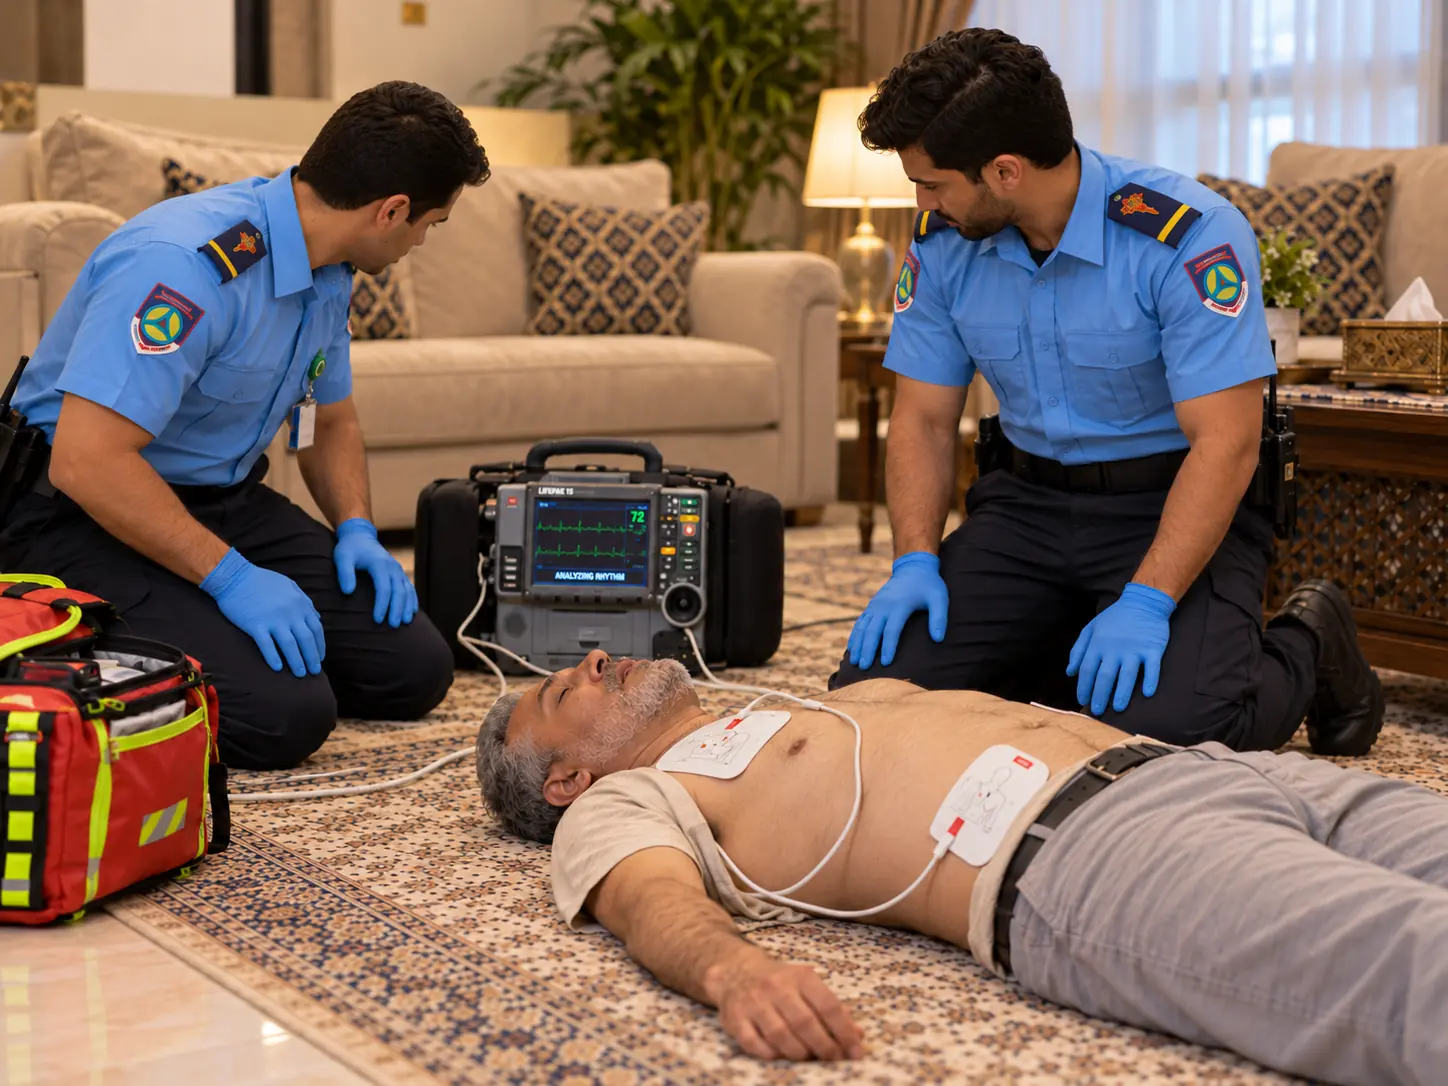
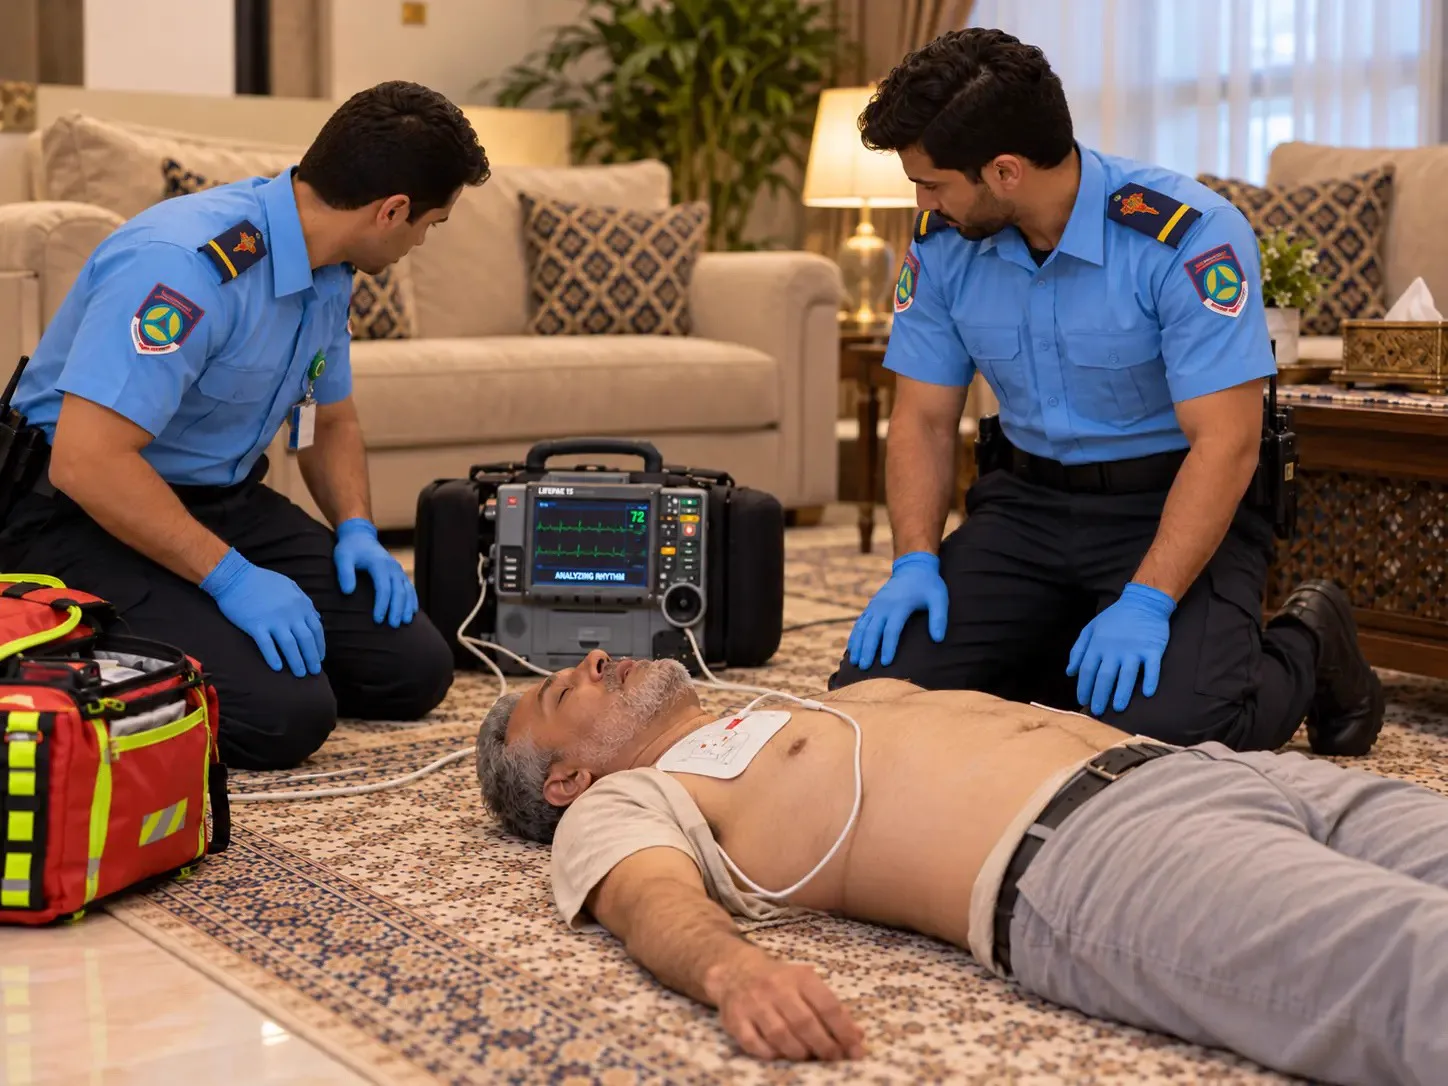
New cardiac arrest cover photo

Changed region(s): [[0.6215, 0.6685, 0.7459, 0.8204], [0.5283, 0.8204, 0.6215, 0.8812]]

diff --git a/js/content/scenes.js b/js/content/scenes.js
@@ -7,7 +7,7 @@ const MOD_COVERS={
  intro:{img:"sc/cover-orientation.webp",pos:"41% 35%"},
  trauma:{img:"sc/scene-01-arrival.webp",pos:"55% 55%"},
  newborn:{img:"sc/cover-newborn.webp",pos:"50% 6%"},
- cardiac:{img:"sc/cover-cardiac.webp",pos:"50% 62%"},
+ cardiac:{img:"sc/cover-cardiac.webp",pos:"50% 55%"},
  stroke:{img:"sc/cover-stroke.webp",pos:"55% 35%"},
  final:{img:"sc/cover-final.webp",pos:"58% 42%"}
 };
